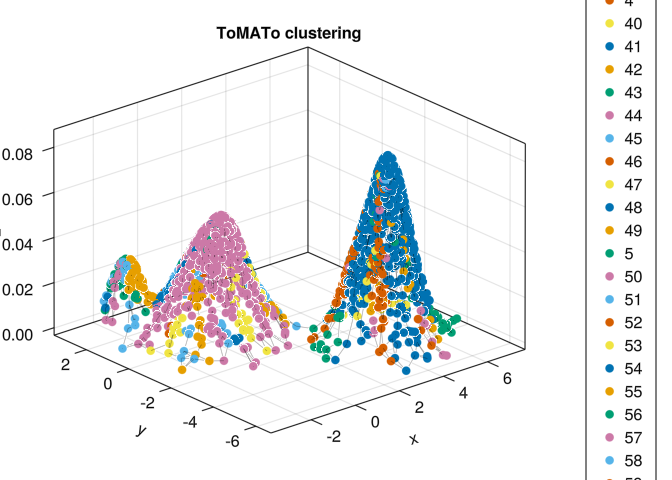
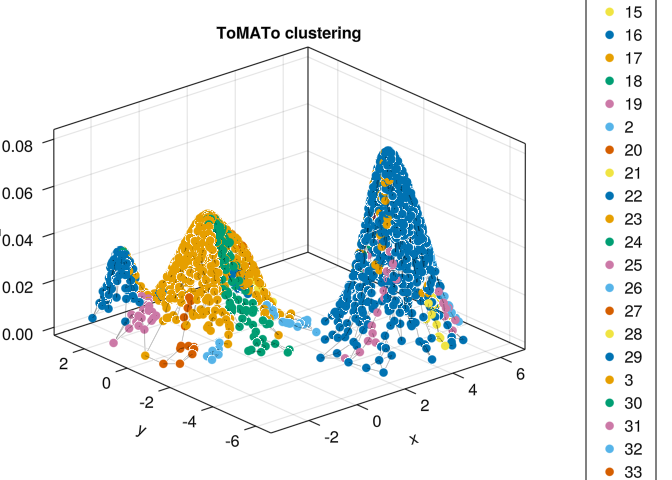
add functors, fix mapper

diff --git a/docs/topology.html b/docs/topology.html
@@ -273,6 +273,8 @@ ul.task-list li input[type="checkbox"] {
   <li><a href="#what-is-topology" id="toc-what-is-topology" class="nav-link active" data-scroll-target="#what-is-topology"><span class="header-section-number">2.1</span> What is topology?</a></li>
   <li><a href="#continuity" id="toc-continuity" class="nav-link" data-scroll-target="#continuity"><span class="header-section-number">2.2</span> Continuity</a></li>
   <li><a href="#the-notion-of-sameness-in-topology" id="toc-the-notion-of-sameness-in-topology" class="nav-link" data-scroll-target="#the-notion-of-sameness-in-topology"><span class="header-section-number">2.3</span> The notion of “sameness” in topology</a></li>
+  <li><a href="#the-opposite-of-sameness" id="toc-the-opposite-of-sameness" class="nav-link" data-scroll-target="#the-opposite-of-sameness"><span class="header-section-number">2.4</span> The opposite of sameness</a></li>
+  <li><a href="#category-theory" id="toc-category-theory" class="nav-link" data-scroll-target="#category-theory"><span class="header-section-number">2.5</span> Category theory??????????</a></li>
   </ul>
 </nav>
     </div>
@@ -305,10 +307,10 @@ ul.task-list li input[type="checkbox"] {
 <h2 data-number="2.1" class="anchored" data-anchor-id="what-is-topology"><span class="header-section-number">2.1</span> What is topology?</h2>
 <p><a href="https://en.wikipedia.org/wiki/Topology">Topology</a> is the study of topological spaces and its properties. Unfortunately, this is not enough to close this chapter.</p>
 <p>A topological space can be thought of as a set with little “scales” called <em>open sets</em>. Each of these open sets represent the notion of local <em>continuity</em> or <em>connectivity</em> that we sense when we look at an object: the feeling that it is just “one single piece of a thing”, like the scales in a fish. We can stretch these scales, but can’t rip them apart. In a sense, topological spaces are elastic. Because of that, there is an old joke that a topologist can’t distinguish between a cup and a donut.</p>
-<div class="quarto-figure quarto-figure-center">
+<div id="fig-topology_joke" class="quarto-figure quarto-figure-center anchored">
 <figure class="figure">
 <p><img src="images/Topology_joke.jpg" class="img-fluid figure-img" style="width:100.0%"></p>
-<figcaption class="figure-caption">A continuous transformation of a cup to a donut. A true topologist will try to bite all these cups. Source: Wikipedia.<a href="#fn1" class="footnote-ref" id="fnref1" role="doc-noteref"><sup>1</sup></a></figcaption>
+<figcaption class="figure-caption">Figure&nbsp;2.1: A continuous transformation of a cup to a donut. A true topologist will try to bite all these cups. Source: Wikipedia.<a href="#fn1" class="footnote-ref" id="fnref1" role="doc-noteref"><sup>1</sup></a></figcaption>
 </figure>
 </div>
 <p>More formally,</p>
@@ -353,12 +355,19 @@ P(X) = \{ U \; | \; U \subseteq X \}.
 <figcaption class="figure-caption">An example of a discontinuous function. Source: byjus.com<a href="#fn3" class="footnote-ref" id="fnref3" role="doc-noteref"><sup>3</sup></a></figcaption>
 </figure>
 </div>
-<p>We notice that no matter how close to 3 we choose some <span class="math inline">\(x \in \mathbb{R}\)</span>, its image <span class="math inline">\(f(x)\)</span> will end up being far away from <span class="math inline">\(f(3)\)</span>. A bit more precisely, there is a small interval around <span class="math inline">\(f(3)\)</span>, say <span class="math inline">\((f(3) - \epsilon, f(3) + \epsilon)\)</span>, such that no matter how small we chose an interval around <span class="math inline">\(3\)</span>, say <span class="math inline">\((3 - \delta, 3 + \delta)\)</span> we will have that</p>
+<p>We notice that no matter how close to 3 we choose some <span class="math inline">\(x \in \mathbb{R}\)</span>, its image <span class="math inline">\(f(x)\)</span> will end up being far away from <span class="math inline">\(f(3)\)</span>. A bit more precisely, there is a small interval around <span class="math inline">\(f(3)\)</span>, say <span class="math display">\[
+(f(3) - \epsilon, f(3) + \epsilon),
+\]</span></p>
+<p>such that no matter how small we chose an interval around <span class="math inline">\(3\)</span>, say</p>
+<p><span class="math display">\[
+(3 - \delta, 3 + \delta),
+\]</span></p>
+<p>we will have that</p>
 <p><span class="math display">\[
 f(x) \notin (f(3) - \epsilon, f(3) + \epsilon), \; \text{for some } x \in (3 - \delta, 3 + \delta).
 \]</span></p>
-<p>!![checar se faz sentido] This is equivalent to the fact that the inverse image of <span class="math inline">\((f(3) - \epsilon, f(3) + \epsilon)\)</span> is <em>not</em> an open set: if it were an open set, we could always “walk a little” on this interval, and still be sent by <span class="math inline">\(f\)</span> to <span class="math inline">\((f(3) - \epsilon, f(3) + \epsilon)\)</span>.</p>
-<p>Inspired by that, we define the following in the much more general context of topological spaces:</p>
+<p>This is equivalent to the fact that the inverse image of <span class="math inline">\((f(3) - \epsilon, f(3) + \epsilon)\)</span> is <em>not</em> an open set containing 3: if it were an open set, we could always “walk a little” on this interval and still be sent by <span class="math inline">\(f\)</span> to <span class="math inline">\((f(3) - \epsilon, f(3) + \epsilon)\)</span>.</p>
+<p>Now that we understood what is a <em>discontinuous</em> function, we define the following in the much more general context of topological spaces:</p>
 <div id="def-" class="theorem definition">
 <p><span class="theorem-title"><strong>Definition 2.4 </strong></span>Given two topological spaces <span class="math inline">\((X, \tau)\)</span> and <span class="math inline">\((Y, \sigma)\)</span>, a function <span class="math inline">\(f: X \to Y\)</span> is said to be <em>continuous</em> if the inverse image of any open set of <span class="math inline">\(Y\)</span> is also an open set of <span class="math inline">\(X\)</span>. In symbols:</p>
 <p><span class="math display">\[
@@ -379,8 +388,42 @@ f(x) \notin (f(3) - \epsilon, f(3) + \epsilon), \; \text{for some } x \in (3 - \
 <p>A topological space is completely define by a set <span class="math inline">\(X\)</span> and its open sets <span class="math inline">\(\tau\)</span>. If we just “rename” the elements of <span class="math inline">\(X\)</span>, then it is intuitive that this new topological space is as similar to <span class="math inline">\(X\)</span> as possible; in fact, they are indistinguishable from each other: every topological property (ie: properties related to open sets) that the first has, the second also has.</p>
 <p>Renaming points is just a informally way to say “bijection of sets”. So, two topological spaces <span class="math inline">\(X\)</span> and <span class="math inline">\(Y\)</span> are “the same thing, topologically speaking” if there is a bijection <span class="math inline">\(f: X \to Y\)</span> such that <span class="math inline">\(U \subseteq X\)</span> is open if and only if <span class="math inline">\(f(X) \subseteq Y\)</span> is open. More precisely,</p>
 <div id="def-" class="theorem definition">
-<p><span class="theorem-title"><strong>Definition 2.5 </strong></span>We say that two topological spaces <span class="math inline">\(X\)</span> and <span class="math inline">\(Y\)</span> are <em>homeomorphic</em> if there exists a continuous bijection <span class="math inline">\(f: X \to Y\)</span> such that <span class="math inline">\(f^{-1}\)</span> is also continuous. In this case, <span class="math inline">\(f\)</span> is called an <em>homeomorphism</em>.</p>
+<p><span class="theorem-title"><strong>Definition 2.5 </strong></span>We say that two topological spaces <span class="math inline">\(X\)</span> and <span class="math inline">\(Y\)</span> are <em>homeomorphic</em>, and denote it by <span class="math inline">\(X \approx Y\)</span>, if there exists a continuous bijection <span class="math inline">\(f: X \to Y\)</span> such that <span class="math inline">\(f^{-1}\)</span> is also continuous. In this case, <span class="math inline">\(f\)</span> is called an <em>homeomorphism</em>.</p>
 </div>
+<p>Two spaces are homeomorphic, then, if it is possible to deform one into another; this deformation include stretching and twisting, but never “gluing” points together (because of the bijection) and neither tearing them apart (because of the continuity). Note that the relation <span class="math inline">\(\approx\)</span> is</p>
+<ul>
+<li>simmetric: <span class="math inline">\(X \approx X\)</span>;</li>
+<li>reflexive: <span class="math inline">\(X \approx Y\)</span> implies <span class="math inline">\(Y \approx X\)</span>;</li>
+<li>transitive: <span class="math inline">\(X \approx Y\)</span> and <span class="math inline">\(Y \approx Z\)</span> implies <span class="math inline">\(X \approx Z\)</span>.</li>
+</ul>
+<div id="exm-" class="theorem example">
+<p><span class="theorem-title"><strong>Example 2.2 </strong></span>The real line <span class="math inline">\(\mathbb{R}\)</span> is homeomorphic to a single interval <span class="math inline">\((a, b)\)</span>.</p>
+<p><strong>Proof</strong>: First, note that <span class="math inline">\((a, b)\)</span> is homeomorphic to <span class="math inline">\(I = (- \pi / 2, \pi / 2)\)</span>. Consider then the map <span class="math inline">\(\tan: I \to \mathbb{R}\)</span>, the tangent. Then <span class="math inline">\(\tan\)</span> is continuous, bijective and its inverse <span class="math inline">\(\tan^{-1}\)</span> is also continuous. Therefore, <span class="math display">\[
+(a, b) \approx I \approx \mathbb{R}.
+\]</span></p>
+</div>
+</section>
+<section id="the-opposite-of-sameness" class="level2" data-number="2.4">
+<h2 data-number="2.4" class="anchored" data-anchor-id="the-opposite-of-sameness"><span class="header-section-number">2.4</span> The opposite of sameness</h2>
+<p>All the topological spaces of figure <a href="#fig-topology_joke">Figure&nbsp;<span>2.1</span></a> are homeomorphic to each other. To show that, it is enough to exhibit a homeomorphism between them. But how can we prove that two spaces are <em>not</em> homeomorphic? How can we show that it is impossible to stretch and twist and rotate one object into another? There are can be infinite maps from one space to another!</p>
+<p>Proving that spaces are homeomorphic (or not) is one of the central problems in topology, and many complex tools where created to solve it. Let’s see below one general idea to solve it.</p>
+<p>Let <span class="math inline">\(X\)</span> and <span class="math inline">\(Y\)</span> be two spaces. We suspect that they are not homeomorphic; to confirm our suspicion, suppose they are homeomorphic and let’s arrive at an absurd. So let <span class="math inline">\(f: X \to Y\)</span> be an homeomorphism. If we have some kind of “simplification map” <span class="math inline">\(H\)</span> that transform <span class="math inline">\(X\)</span> into a much simpler object <span class="math inline">\(H(X)\)</span> (and equivalently <span class="math inline">\(Y\)</span> into <span class="math inline">\(H(Y)\)</span>), and, moreover, transform the map</p>
+<p><span class="math display">\[
+f: X \to Y
+\]</span></p>
+<p>into a map between these new objects</p>
+<p><span class="math display">\[
+H(f): H(X) \to H(Y)
+\]</span></p>
+<p>then we can start looking for some paradox in these new and much simpler objects.</p>
+<p>Let’s be even more optimistic: suppose that <span class="math inline">\(H\)</span> is so well-behaved that <span class="math inline">\(f\)</span> is transformed into an isomorphism<a href="#fn4" class="footnote-ref" id="fnref4" role="doc-noteref"><sup>4</sup></a>. It is enough, then, to prove that <span class="math inline">\(H(X)\)</span> is not isomorphic to <span class="math inline">\(H(Y)\)</span>. We could simplify even more and demand that <span class="math inline">\(H(X)\)</span> is just a number, and <span class="math inline">\(H(f)\)</span> is an equality; then <span class="math display">\[
+H(X) \text{\; different from\; } H(Y) \Rightarrow \text{$X$ and $Y$ are not homeomorphic}.
+\]</span></p>
+<p>This transformation of “topological spaces + maps” to “things + maps between things” is called a <em>functor</em>. We are starting to dip our toes into the mathematical field called <strong>category theory</strong>, which is a kind of meta-mathematics.</p>
+</section>
+<section id="category-theory" class="level2" data-number="2.5">
+<h2 data-number="2.5" class="anchored" data-anchor-id="category-theory"><span class="header-section-number">2.5</span> Category theory??????????</h2>
+<p>??????????????????????????</p>
 
 
 </section>
@@ -390,6 +433,7 @@ f(x) \notin (f(3) - \epsilon, f(3) + \epsilon), \; \text{for some } x \in (3 - \
 <li id="fn1"><p>https://commons.wikimedia.org/wiki/File:Topology_joke.jpg<a href="#fnref1" class="footnote-back" role="doc-backlink">↩</a></p></li>
 <li id="fn2"><p>I just invented this. Maybe some of them really got crazy, who knows?<a href="#fnref2" class="footnote-back" role="doc-backlink">↩</a></p></li>
 <li id="fn3"><p>https://byjus.com/maths/discontinuity/<a href="#fnref3" class="footnote-back" role="doc-backlink">↩</a></p></li>
+<li id="fn4"><p>ie. <span class="math inline">\(H(f)\)</span> will have the same notion of “sameness” in this context as homeomorphisms have in the context of topological spaces. So if <span class="math inline">\(H(X)\)</span> is a vector space and <span class="math inline">\(H(f)\)</span> is a linear transformation, then it is also an isomorphism of vector spaces; if <span class="math inline">\(H(X)\)</span> is a group and <span class="math inline">\(H(f)\)</span> is a homomorphism, then it is also an isomorphism of groups, and so on<a href="#fnref4" class="footnote-back" role="doc-backlink">↩</a></p></li>
 </ol>
 </section>
 

diff --git a/docs/mapper.html b/docs/mapper.html
@@ -304,12 +304,11 @@ pre > code.sourceCode > span > a:first-child::before { text-decoration: underlin
     <h2 id="toc-title">Table of contents</h2>
    
   <ul>
-  <li><a href="#some-theory" id="toc-some-theory" class="nav-link active" data-scroll-target="#some-theory"><span class="header-section-number">7.1</span> Some theory</a>
+  <li><a href="#reeb-graph" id="toc-reeb-graph" class="nav-link active" data-scroll-target="#reeb-graph"><span class="header-section-number">7.1</span> Reeb graph</a>
   <ul class="collapse">
-  <li><a href="#reeb-graph" id="toc-reeb-graph" class="nav-link" data-scroll-target="#reeb-graph"><span class="header-section-number">7.1.1</span> Reeb graph</a></li>
-  <li><a href="#the-classical-mapper" id="toc-the-classical-mapper" class="nav-link" data-scroll-target="#the-classical-mapper"><span class="header-section-number">7.1.2</span> The (classical) mapper</a></li>
+  <li><a href="#the-classical-mapper" id="toc-the-classical-mapper" class="nav-link" data-scroll-target="#the-classical-mapper"><span class="header-section-number">7.1.1</span> The (classical) mapper</a></li>
   </ul></li>
-  <li><a href="#less-theory-more-julia" id="toc-less-theory-more-julia" class="nav-link" data-scroll-target="#less-theory-more-julia"><span class="header-section-number">7.2</span> Less theory, more Julia!</a></li>
+  <li><a href="#an-example-in-julia" id="toc-an-example-in-julia" class="nav-link" data-scroll-target="#an-example-in-julia"><span class="header-section-number">7.2</span> An example in Julia</a></li>
   </ul>
 </nav>
     </div>
@@ -333,26 +332,23 @@ pre > code.sourceCode > span > a:first-child::before { text-decoration: underlin
 
 </header>
 
-<section id="some-theory" class="level2" data-number="7.1">
-<h2 data-number="7.1" class="anchored" data-anchor-id="some-theory"><span class="header-section-number">7.1</span> Some theory</h2>
-<section id="reeb-graph" class="level3" data-number="7.1.1">
-<h3 data-number="7.1.1" class="anchored" data-anchor-id="reeb-graph"><span class="header-section-number">7.1.1</span> Reeb graph</h3>
-<p>In topology, there are many ways by which we try to see what can’t be seen, in particular high-dimensional sets. The <a href="https://en.wikipedia.org/wiki/Reeb_graph">Reeb graph</a> is one of those ways: given a topological space <span class="math inline">\(X\)</span> and a continuous function <span class="math inline">\(f: X \to \mathbb{R}\)</span>, we can collapse the connected components of its pre-images to get a graph that reflects the level-sets of <span class="math inline">\(f\)</span>.</p>
+<section id="reeb-graph" class="level2" data-number="7.1">
+<h2 data-number="7.1" class="anchored" data-anchor-id="reeb-graph"><span class="header-section-number">7.1</span> Reeb graph</h2>
+<p>In topology, there are many ways by which we try to see what can’t be seen, in particular high-dimensional sets. The <a href="https://en.wikipedia.org/wiki/Reeb_graph">Reeb graph</a> is one of those ways: given a topological space <span class="math inline">\(X\)</span> and a map <span class="math inline">\(f: X \to \mathbb{R}\)</span>, we can collapse the connected components of its pre-images to get a graph that reflects the level-sets of <span class="math inline">\(f\)</span>.</p>
 <p>More formally, we define a relation <span class="math inline">\(\sim\)</span> on <span class="math inline">\(X\)</span> such that <span class="math inline">\(p \sim q\)</span> if-and-only-if <span class="math inline">\(p\)</span> and <span class="math inline">\(q\)</span> belong to the same connected component of <span class="math inline">\(f^{-1}(c)\)</span> for some <span class="math inline">\(c \in \mathbb{R}\)</span>.</p>
 <div class="quarto-figure quarto-figure-center">
 <figure class="figure">
 <p><img src="images/reeb.png" class="img-fluid figure-img"></p>
-<figcaption class="figure-caption">The Reeb graph of a torus using the projection on the z-axis.</figcaption>
+<figcaption class="figure-caption">The Reeb graph of a torus using the projection on the z-axis. Source: Wikipedia<a href="#fn1" class="footnote-ref" id="fnref1" role="doc-noteref"><sup>1</sup></a></figcaption>
 </figure>
 </div>
-</section>
-<section id="the-classical-mapper" class="level3" data-number="7.1.2">
-<h3 data-number="7.1.2" class="anchored" data-anchor-id="the-classical-mapper"><span class="header-section-number">7.1.2</span> The (classical) mapper</h3>
+<section id="the-classical-mapper" class="level3" data-number="7.1.1">
+<h3 data-number="7.1.1" class="anchored" data-anchor-id="the-classical-mapper"><span class="header-section-number">7.1.1</span> The (classical) mapper</h3>
 <p>The (classical) mapper is an algorithm to create <a href="https://en.wikipedia.org/wiki/Graph_theory">graphs</a> from <a href="https://en.wikipedia.org/wiki/Metric_space">metric spaces</a>, and can be seen as an “statistical” version of the Reeb graph.</p>
 <p>To be able to mimick the Reeb graph, we need to change some objects from the continuous setting to the discrete setting:</p>
 <ul>
 <li><span class="math inline">\(X = (X, d)\)</span> is now a finite metric space, also called a <em>point cloud</em>;</li>
-<li><span class="math inline">\(f: X \to \mathbb{R}\)</span> can be any function (since <span class="math inline">\(X\)</span> is discrete, <span class="math inline">\(f\)</span> is automatically continuous);</li>
+<li><span class="math inline">\(f: X \to \mathbb{R}\)</span> can be any function (since <span class="math inline">\(X\)</span> is discrete, <span class="math inline">\(f\)</span> is always continuous);</li>
 <li>instead of inverse images of <em>points</em> of <span class="math inline">\(\mathbb{R}\)</span>, we calculate inverse images of <em>subsets</em> of <span class="math inline">\(\mathbb{R}\)</span> (usually intervals);</li>
 <li>instead of connected components (which are trivial in the discrete setting), we use some clustering algorithm (DBSCAN, single linkage, etc.) and consider these clusterings as “connected pieces of <span class="math inline">\(X\)</span>”.</li>
 </ul>
@@ -380,8 +376,8 @@ V = \{ l(p); \; p = f^{-1}(c) \; \text{for} \; c \in C\}
 <p>In words, we have an edge between <span class="math inline">\(v_1\)</span> and <span class="math inline">\(v_2\)</span> if there is some point in both <span class="math inline">\(v_1\)</span> and <span class="math inline">\(v_2\)</span> at the same time.</p>
 </section>
 </section>
-<section id="less-theory-more-julia" class="level2" data-number="7.2">
-<h2 data-number="7.2" class="anchored" data-anchor-id="less-theory-more-julia"><span class="header-section-number">7.2</span> Less theory, more Julia!</h2>
+<section id="an-example-in-julia" class="level2" data-number="7.2">
+<h2 data-number="7.2" class="anchored" data-anchor-id="an-example-in-julia"><span class="header-section-number">7.2</span> An example in Julia</h2>
 <p>Let’s import some packages:</p>
 <div class="cell" data-execution_count="1">
 <div class="sourceCode cell-code" id="cb1"><pre class="sourceCode julia code-with-copy"><code class="sourceCode julia"><span id="cb1-1"><a href="#cb1-1" aria-hidden="true" tabindex="-1"></a><span class="im">using</span> <span class="bu">TDAmapper;</span></span>
@@ -392,9 +388,9 @@ V = \{ l(p); \; p = f^{-1}(c) \; \text{for} \; c \in C\}
 <div class="sourceCode cell-code" id="cb2"><pre class="sourceCode julia code-with-copy"><code class="sourceCode julia"><span id="cb2-1"><a href="#cb2-1" aria-hidden="true" tabindex="-1"></a>X <span class="op">=</span> gd.<span class="fu">torus</span>(<span class="fl">2000</span>)</span></code><button title="Copy to Clipboard" class="code-copy-button"><i class="bi"></i></button></pre></div>
 <div class="cell-output cell-output-display" data-execution_count="3">
 <pre><code>3×2000 Matrix{Float64}:
- -1.47279   -0.713709   2.37068   …  -0.20223    2.57742    2.30574
-  2.71141    3.80782   -3.09023      -3.03162   -2.5925    -0.666437
- -0.996331  -0.485686  -0.446418      0.999264  -0.755023   0.800092</code></pre>
+ 3.31687   3.01965   2.86135   -1.18996   …  2.52688    3.98365     0.271879
+ 1.99244   2.03354  -1.65949   -2.14445      0.570201  -0.360719    2.33906
+ 0.494297  0.76792   0.951466   0.836795     0.912271   0.00970037  0.764024</code></pre>
 </div>
 </div>
 <p><strong>Important</strong>: when using TDAmapper, your point cloud must be in column-major order. That is: each point of <span class="math inline">\(X\)</span> must be a column of <code>X</code>, not a row (as is usual with dataframes). This is so because <a href="https://github.com/JuliaStats/Distances.jl">Distances.jl</a>, <a href="https://github.com/KristofferC/NearestNeighbors.jl">NearestNeighbors.jl</a>, <a href="https://github.com/JuliaStats/Clustering.jl">Clustering.jl</a> and many other packages for calculations with metric spaces use the column-major order for performance reasons.</p>
@@ -421,11 +417,11 @@ V = \{ l(p); \; p = f^{-1}(c) \; \text{for} \; c \in C\}
 <div class="sourceCode cell-code" id="cb7"><pre class="sourceCode julia code-with-copy"><code class="sourceCode julia"><span id="cb7-1"><a href="#cb7-1" aria-hidden="true" tabindex="-1"></a>C[<span class="fl">1</span><span class="op">:</span><span class="fl">5</span>]</span></code><button title="Copy to Clipboard" class="code-copy-button"><i class="bi"></i></button></pre></div>
 <div class="cell-output cell-output-display" data-execution_count="7">
 <pre><code>5-element Vector{Interval}:
- Interval(-4.706857f0, -3.708342f0)
- Interval(-4.136277f0, -3.1377618f0)
- Interval(-3.565697f0, -2.5671818f0)
- Interval(-2.995117f0, -1.9966017f0)
- Interval(-2.4245367f0, -1.4260216f0)</code></pre>
+ Interval(-4.7024693f0, -3.7038724f0)
+ Interval(-4.1318426f0, -3.1332457f0)
+ Interval(-3.5612159f0, -2.562619f0)
+ Interval(-2.9905891f0, -1.9919922f0)
+ Interval(-2.4199622f0, -1.4213654f0)</code></pre>
 </div>
 </div>
 <p>For the clustering algorithm we choose the DBSCAN with radius 1:</p>
@@ -436,7 +432,7 @@ V = \{ l(p); \; p = f^{-1}(c) \; \text{for} \; c \in C\}
 <div class="cell" data-execution_count="8">
 <div class="sourceCode cell-code" id="cb10"><pre class="sourceCode julia code-with-copy"><code class="sourceCode julia"><span id="cb10-1"><a href="#cb10-1" aria-hidden="true" tabindex="-1"></a><span class="co"># the mapper function needs:</span></span>
 <span id="cb10-2"><a href="#cb10-2" aria-hidden="true" tabindex="-1"></a><span class="co"># X</span></span>
-<span id="cb10-3"><a href="#cb10-3" aria-hidden="true" tabindex="-1"></a><span class="co"># the values of f(X)</span></span>
+<span id="cb10-3"><a href="#cb10-3" aria-hidden="true" tabindex="-1"></a><span class="co"># fv, the values of f(X)</span></span>
 <span id="cb10-4"><a href="#cb10-4" aria-hidden="true" tabindex="-1"></a><span class="co"># the covering C</span></span>
 <span id="cb10-5"><a href="#cb10-5" aria-hidden="true" tabindex="-1"></a><span class="co"># the clustering function</span></span>
 <span id="cb10-6"><a href="#cb10-6" aria-hidden="true" tabindex="-1"></a>mp <span class="op">=</span> <span class="fu">mapper</span>(X, fv, C; clustering <span class="op">=</span> clustering)</span></code><button title="Copy to Clipboard" class="code-copy-button"><i class="bi"></i></button></pre></div>
@@ -455,6 +451,12 @@ V = \{ l(p); \; p = f^{-1}(c) \; \text{for} \; c \in C\}
 <p>Compare it with the Reeb graph from the start. If this isn’t nice, what is?</p>
 
 
+</section>
+<section id="footnotes" class="footnotes footnotes-end-of-document" role="doc-endnotes">
+<hr>
+<ol>
+<li id="fn1"><p>https://commons.wikimedia.org/wiki/File:3D-Leveltorus-Reebgraph.png<a href="#fnref1" class="footnote-back" role="doc-backlink">↩</a></p></li>
+</ol>
 </section>
 
 </main> <!-- /main -->

diff --git a/docs/tomato.html b/docs/tomato.html
@@ -400,14 +400,14 @@ pre > code.sourceCode > span > a:first-child::before { text-decoration: underlin
 </ul>
 <p>To do that, we need to define a notion of “neighborhood” in this dataset. The easiest way is to define a graph whose vertex set is <span class="math inline">\(X\)</span> and edges connect neighbor points. Fortunately, the <code>ToMATo</code> package has a function that does exactly that. You are welcome!</p>
 <div class="cell" data-execution_count="5">
-<div class="sourceCode cell-code" id="cb5"><pre class="sourceCode julia code-with-copy"><code class="sourceCode julia"><span id="cb5-1"><a href="#cb5-1" aria-hidden="true" tabindex="-1"></a>g <span class="op">=</span> <span class="fu">proximity_graph</span>(X, <span class="fl">0.2</span>, max_k_ball <span class="op">=</span> <span class="fl">4</span>, k_nn <span class="op">=</span> <span class="fl">3</span>, min_k_ball <span class="op">=</span> <span class="fl">2</span>)</span></code><button title="Copy to Clipboard" class="code-copy-button"><i class="bi"></i></button></pre></div>
+<div class="sourceCode cell-code" id="cb5"><pre class="sourceCode julia code-with-copy"><code class="sourceCode julia"><span id="cb5-1"><a href="#cb5-1" aria-hidden="true" tabindex="-1"></a>g <span class="op">=</span> <span class="fu">proximity_graph</span>(X, <span class="fl">0.2</span>, max_k_ball <span class="op">=</span> <span class="fl">6</span>, k_nn <span class="op">=</span> <span class="fl">3</span>, min_k_ball <span class="op">=</span> <span class="fl">3</span>)</span></code><button title="Copy to Clipboard" class="code-copy-button"><i class="bi"></i></button></pre></div>
 <div class="cell-output cell-output-display" data-execution_count="6">
-<pre><code>{1700, 4755} undirected simple Int64 graph</code></pre>
+<pre><code>{1700, 6154} undirected simple Int64 graph</code></pre>
 </div>
 </div>
 <p>The graph <span class="math inline">\(g\)</span> above is constructed as follows: given <span class="math inline">\(x \in X\)</span>, we create a ball with radius <span class="math inline">\(0.2\)</span> around <span class="math inline">\(X\)</span> and do the following:</p>
 <ul>
-<li>Are there less than 2 points in the ball? If yes, then we connect <span class="math inline">\(x\)</span> to its 2 closest points; if no, we connect <span class="math inline">\(x\)</span> to its 6 (at maximum) closest points in the ball. In short: if the ball has not the amount of points we stipulated, then we use knn search.</li>
+<li>Are there less than 3 points in the ball? If yes, then we connect <span class="math inline">\(x\)</span> to its 3 closest points; if no, we connect <span class="math inline">\(x\)</span> to its 6 (at maximum) closest points in the ball. In short: if the ball has not the amount of points we stipulated, then we use knn search.</li>
 </ul>
 <p>These numbers obviously are arbitrary and can be changed at will.</p>
 <p>Let’s see the result of our algorithm:</p>
@@ -429,9 +429,9 @@ pre > code.sourceCode > span > a:first-child::before { text-decoration: underlin
 <section id="the-comedy-of-errors" class="level2" data-number="6.3">
 <h2 data-number="6.3" class="anchored" data-anchor-id="the-comedy-of-errors"><span class="header-section-number">6.3</span> The Comedy of Errors</h2>
 <p>This <del>tragedy</del> happened because we did not take into account the “false peaks”: peaks that are just a little bump and not a real peak. To merge these small-peaks into the big ones, we need to add the following step:</p>
-<p>Let <span class="math inline">\(\tau\)</span> be a number that denotes how small a bump must be to be merged (we will show how to calculate <span class="math inline">\(\tau\)</span> below). Given <span class="math inline">\(x \in X\)</span>, let <span class="math inline">\(N\)</span> be the set of its neighbors higher than <span class="math inline">\(x\)</span>. Denote by <span class="math inline">\(x_max\)</span> the highest point in <span class="math inline">\(N\)</span>, and <span class="math inline">\(c_max\)</span> its cluster. Now, for each <span class="math inline">\(y \in N\)</span>, ask the following:</p>
+<p>Let <span class="math inline">\(\tau\)</span> be a number that denotes how small a bump must be to be merged (we will show how to calculate <span class="math inline">\(\tau\)</span> below). Given <span class="math inline">\(x \in X\)</span>, let <span class="math inline">\(N\)</span> be the set of its neighbors higher than <span class="math inline">\(x\)</span>. Denote by <span class="math inline">\(x_{max}\)</span> the highest point in <span class="math inline">\(N\)</span>, and <span class="math inline">\(c_max\)</span> its cluster. Now, for each <span class="math inline">\(y \in N\)</span>, ask the following:</p>
 <ul>
-<li>Is the difference of heights of <span class="math inline">\(x\)</span> and <span class="math inline">\(y\)</span> less than <span class="math inline">\(\tau\)</span>? If yes, we merge the cluster of <span class="math inline">\(y\)</span> with the cluster of <span class="math inline">\(x_max\)</span>. Otherwise, do nothing.</li>
+<li>Is the difference of heights of <span class="math inline">\(x\)</span> and <span class="math inline">\(y\)</span> less than <span class="math inline">\(\tau\)</span>? If yes, we merge the cluster of <span class="math inline">\(y\)</span> with the cluster of <span class="math inline">\(x_{max}\)</span>. Otherwise, do nothing.</li>
 </ul>
 <div class="cell" data-execution_count="7">
 <div class="sourceCode cell-code" id="cb9"><pre class="sourceCode julia code-with-copy"><code class="sourceCode julia"><span id="cb9-1"><a href="#cb9-1" aria-hidden="true" tabindex="-1"></a>τ <span class="op">=</span> <span class="fl">0.02</span></span>

diff --git a/docs/index.html b/docs/index.html
@@ -313,15 +313,16 @@ ul.task-list li input[type="checkbox"] {
 </blockquote>
 <p>Welcome!</p>
 <p>This is the first draft of <strong>“Topological data analysis with Julia”</strong>.</p>
-<p>The secret knowledge of Topological Data Analysis (TDA, for short) is spread in hundreds of papers and a few books. None, however, gives a consistent treatment of theory and examples with code. Code is essential to transform theory into real data analysis.</p>
+<p>The secret knowledge of Topological Data Analysis (TDA, for short) is spread in hundreds of papers and a few books. None, however, gives a consistent treatment of topology, data analysis and examples with code. Code is essential to transform theory into real data analysis.</p>
 <p>This book tries to fill this gap. In it, we will outline the main methods used to analyse data with topology, and try to give some non-trivial examples. Besides, it is a healthy way I found to practice Julia and study TDA again.</p>
-<p>The readers who are afraid of Mathematics are urged to at least understand the intuitive notions of the definitions and results presented here. This is why I will give many informal descriptions of the ideas and objects before formalising them. Keep in mind, however, that Mathematics is the language that best describes abstractions and the use of logic, and <strong>you only can learn a language by using it</strong>.</p>
-<p>This book will teach the basics of topology needed to understand TDA, and in the examples will give some directions on data analysis; but unfortunately we will not teach you Julia. For that, there are many excellent resources. See, for example:</p>
+<p>The readers who are afraid of Mathematics are urged to at least understand the intuitive notions of the definitions and results presented here. This is why I will give many informal descriptions of the ideas and objects before formalising them. Keep in mind, however, that Mathematics is the language that best describes abstractions and the use of logic, and <strong>you only can learn a language by using it</strong>. For those who love math, I hope the “intuitive notions” won’t seem too boring.</p>
+<p>This book will teach the basics of topology and data analysis needed to understand TDA; unfortunately, <strong>we will not teach you Julia</strong> directly. For that, there are many excellent resources. See, for example:</p>
 <ul>
 <li><a href="https://benlauwens.github.io/ThinkJulia.jl/latest/book.html">Think Julia</a></li>
 <li><a href="https://juliateachingctu.github.io/Julia-for-Optimization-and-Learning/dev/">Julia for Optimization and Learning</a></li>
 <li><a href="https://datasciencejuliahackers.com/">Data Science in Julia for Hackers</a></li>
 </ul>
+<p>You can, however, learn something from the code examples and modify them to your needs.</p>
 
 
 </section>

diff --git a/docs/intro.html b/docs/intro.html
@@ -290,6 +290,8 @@ ul.task-list li input[type="checkbox"] {
 <p>“The unexpected elation with which I had talked about mathematics had suddenly evaporated, and I sat beside him, feeling the weight of my own body, its unnecessary size. Outside of mathematics we had nothing to say to each other, and we both knew it. Then it occurred to me that the emotion with which I had spoken of the blessed role of mathematics on the voyage was a deception. I had been deceiving myself with the modesty, the serious heroism of the pilot who occupies himself, in the gaps of the nebulae, with theoretical studies of infinity. Hypocrisy. For what had it been, really? If a castaway, adrift for months at sea, has a thousand times counted the number of wood fibers that make up his raft, in order to keep sane, should he boast about it when he reaches land? That he had the tenacity to survive? And what of it? Who cared? Why should it matter to anyone how I had filled my poor brain those ten years, and why was that more important than how I had filled my stomach?”<br>
 — Stanisław Lem, in “Return from the stars”</p>
 </blockquote>
+<p>Topological data analysis is an exotic animal.</p>
+<p>How can one mix a field from abstract math (topology) with real world data? In topology, finite topological spaces are trivial and often ignored, but every real-world data is finite. To connect these two areas of study, we need to have tools that transform finite metric spaces into objects that topology can handle and say something interest about.</p>
 
 
 

diff --git a/docs/simplicial.html b/docs/simplicial.html
@@ -287,9 +287,12 @@ ul.task-list li input[type="checkbox"] {
 </header>
 
 <blockquote class="blockquote">
-<p>“Perfection does not exist; to comprehend it is the triumph of human intelligence; to desire to possess it, the most dangerous of follies.”<br>
+<p>“&gt; Are you a man, Octave? Do you see the leaves falling from the trees, the sun rising and setting? Do you hear the ticking of the horologe of time with each pulsation of your heart? Is there, then, such a difference between the love of a year and the love of an hour? I challenge you to answer that, you fool, as you sit there looking out at the infinite through a window not larger than your hand.”<br>
 — Alfred de Musset, in “The confession of a child of the century”</p>
 </blockquote>
+<p>from infinite to finite</p>
+<p>abstract simplicial complexes as approximation of other objects</p>
+<p>standard embedding</p>
 
 
 

diff --git a/docs/homology.html b/docs/homology.html
@@ -286,7 +286,12 @@ ul.task-list li input[type="checkbox"] {
 
 </header>
 
-<p>Introduzir homologia como modo de contar buracos. Ideia intuitiva, depois formalização</p>
+<blockquote class="blockquote">
+<p>Her thoughts were theorems, her words a problem,<br>
+As if she deem’d that mystery would ennoble ’em.<br>
+— Lord Byron, in “Don Juan”</p>
+</blockquote>
+<p>homology as a tool to count holes; describe the algebra intuitively, formalise later</p>
 
 
 
